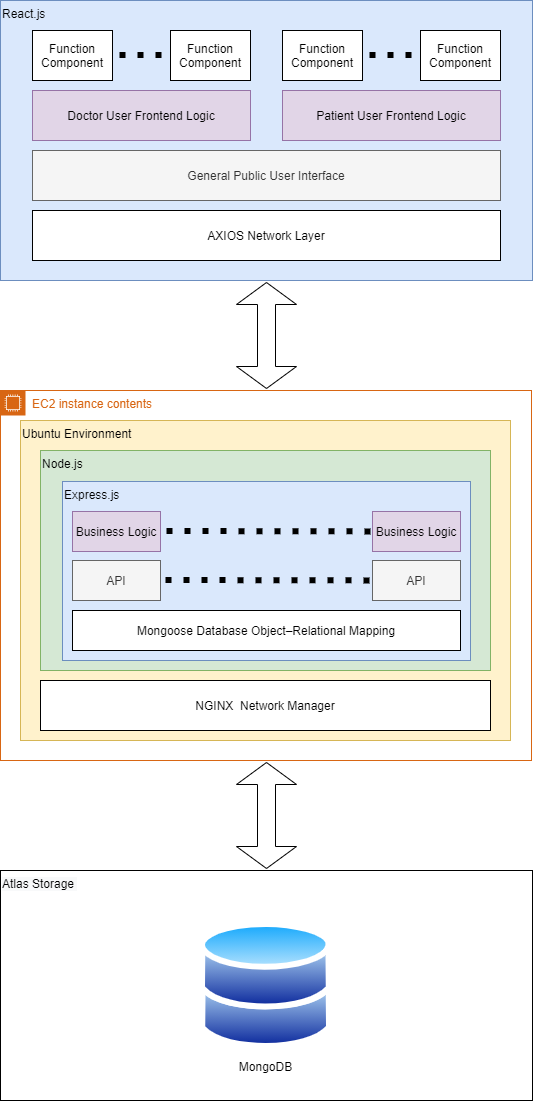
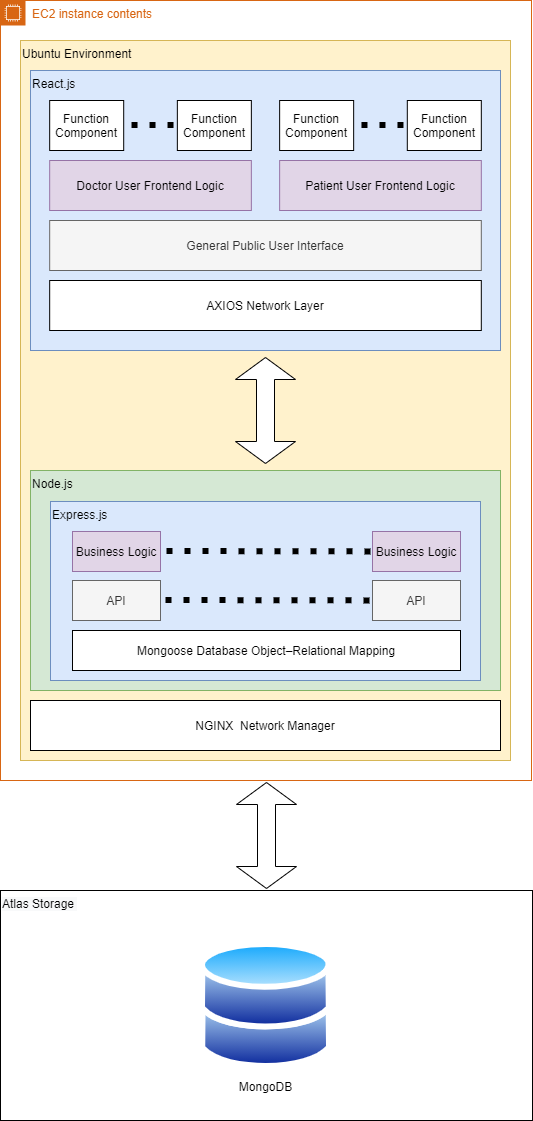
update system design documentation

diff --git a/README.md b/README.md
@@ -58,6 +58,12 @@ NEUROSOFT
 ├───.gitignore
 └───tree.txt                                    # I am Groot
 ```
+
+---
+## System Architecture 
+<center>
+    <img alin = "center" src="./Design/sys stack.png">
+</center>
 ---
 ## Getting Started
 
